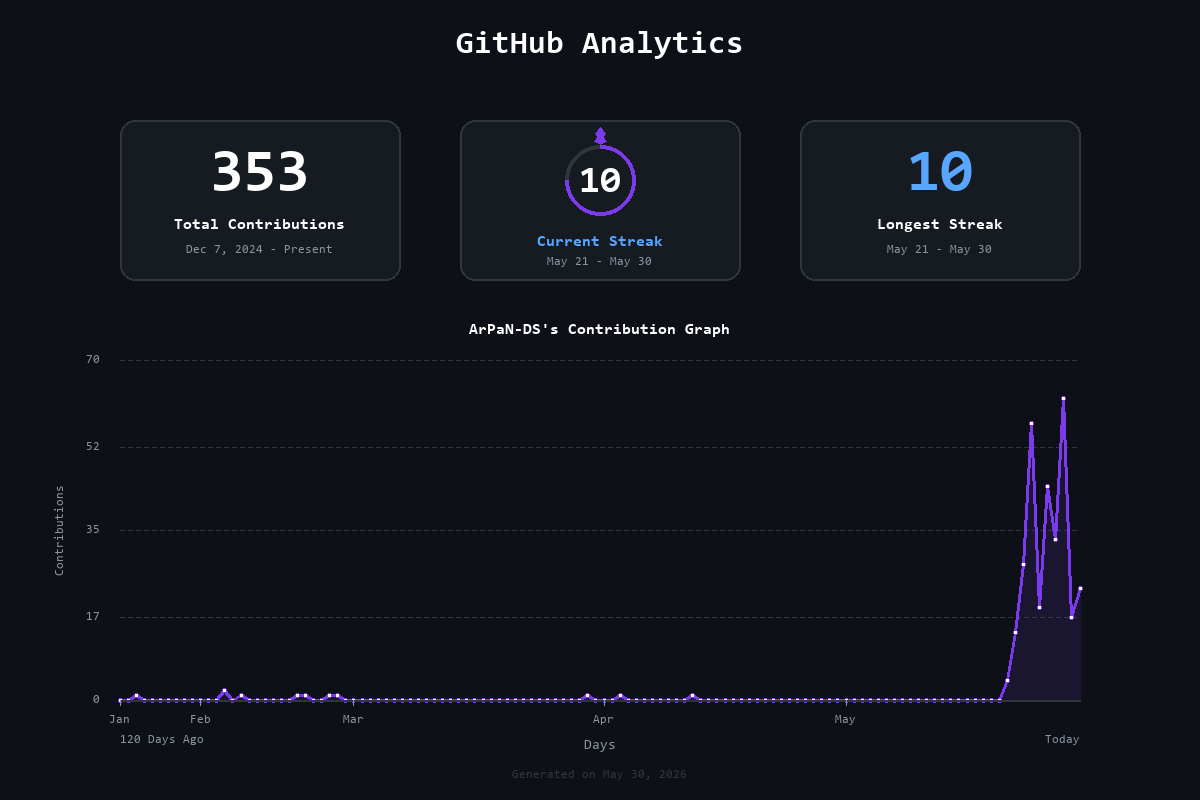
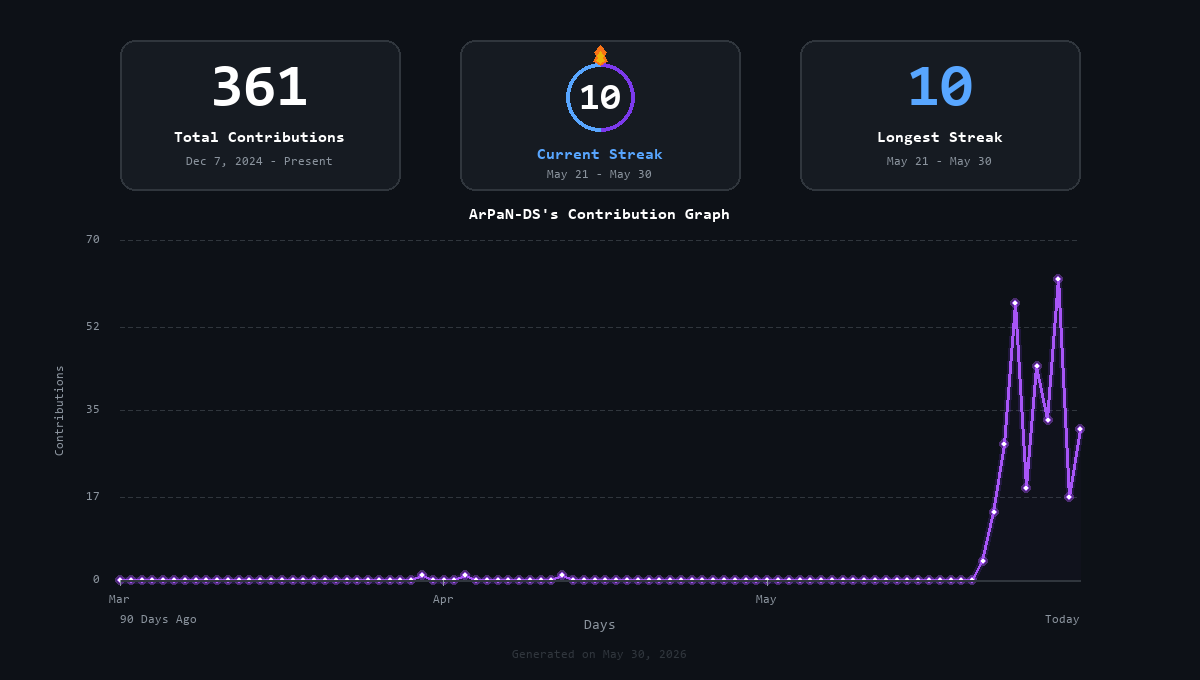
refactor: optimize github analytics visualization with a compact layout, updated flame design, and improved gradient rendering

diff --git a/generate_github_analytics.py b/generate_github_analytics.py
@@ -223,7 +223,7 @@ def draw_vertical_text(draw, img, text, pos, fill, font):
     img.paste(rotated, (px, py), rotated)
 
 
-def generate_github_analytics(username, days_back=120, token=None):
+def generate_github_analytics(username, days_back=90, token=None):
     """Generate GitHub Analytics dashboard image."""
     print(f"📊 Generating GitHub Analytics for {username}...")
     print(f"   Timeline: Last {days_back} days")
@@ -242,26 +242,22 @@ def generate_github_analytics(username, days_back=120, token=None):
     # Calculate streaks
     streaks = calculate_streaks(contributions_by_date)
     
-    # Image dimensions
-    W, H = 1200, 800
+    # Image dimensions (Cropped height for compact layout, removing duplicate title)
+    W, H = 1200, 680
     img = Image.new("RGB", (W, H), BG)
     draw = ImageDraw.Draw(img)
     
     # Fonts
-    font_title = get_bold_font(32)
     font_metric = get_bold_font(60)
     font_metric_sm = get_bold_font(38)
     font_label = get_bold_font(16)
     font_sm = get_font(14)
     font_xs = get_font(12)
     
-    # Title
-    draw.text((W // 2, 45), "GitHub Analytics", fill=WHITE, font=font_title, anchor="mm")
-    
-    # Top metrics row
-    metrics_y = 120
+    # Top metrics row (shifted up to y = 40)
+    metrics_y = 40
     metric_width = 280
-    metric_height = 160
+    metric_height = 150
     metrics_x_positions = [120, 460, 800]
     
     # ── Card 1: Total Contributions ──
@@ -273,9 +269,9 @@ def generate_github_analytics(username, days_back=120, token=None):
         outline=DIM,
         width=2
     )
-    draw.text((x1 + metric_width // 2, metrics_y + 55), str(total_contributions), fill=WHITE, font=font_metric, anchor="mm")
-    draw.text((x1 + metric_width // 2, metrics_y + 105), "Total Contributions", fill=WHITE, font=font_label, anchor="mm")
-    draw.text((x1 + metric_width // 2, metrics_y + 130), "Dec 7, 2024 - Present", fill=GRAY, font=font_xs, anchor="mm")
+    draw.text((x1 + metric_width // 2, metrics_y + 50), str(total_contributions), fill=WHITE, font=font_metric, anchor="mm")
+    draw.text((x1 + metric_width // 2, metrics_y + 98), "Total Contributions", fill=WHITE, font=font_label, anchor="mm")
+    draw.text((x1 + metric_width // 2, metrics_y + 122), "Dec 7, 2024 - Present", fill=GRAY, font=font_xs, anchor="mm")
     
     # ── Card 2: Current Streak (Circular progress design) ──
     x2 = metrics_x_positions[1]
@@ -287,32 +283,44 @@ def generate_github_analytics(username, days_back=120, token=None):
         width=2
     )
     cx, cy = x2 + metric_width // 2, metrics_y + metric_height // 2
-    r = 35
-    circle_y = cy - 20
+    r = 34
+    circle_y = cy - 18
     # Inactive track
     draw.ellipse([(cx - r, circle_y - r), (cx + r, circle_y + r)], outline=DIM, width=4)
-    # Active arc
-    draw.arc([(cx - r, circle_y - r), (cx + r, circle_y + r)], start=-90, end=180 if streaks["current"] > 0 else -90, fill=PURPLE, width=4)
+    # Active arc (glowing purple to blue gradient feel)
+    draw.arc([(cx - r, circle_y - r), (cx + r, circle_y + r)], start=-90, end=90 if streaks["current"] > 0 else -90, fill=PURPLE, width=4)
+    draw.arc([(cx - r, circle_y - r), (cx + r, circle_y + r)], start=90, end=270 if streaks["current"] > 0 else 90, fill=BLUE, width=4)
     
-    # Custom flame shape above the ring
+    # Custom double-layered flame shape (Orange-500 outer, Yellow-500 inner)
     flame_y = circle_y - r - 6
-    flame_points = [
+    outer_points = [
         (cx, flame_y - 12),
-        (cx + 5, flame_y - 6),
-        (cx + 3, flame_y - 2),
-        (cx + 6, flame_y + 2),
-        (cx, flame_y + 5),
-        (cx - 6, flame_y + 2),
-        (cx - 3, flame_y - 2),
-        (cx - 5, flame_y - 6),
+        (cx + 6, flame_y - 5),
+        (cx + 4, flame_y - 1),
+        (cx + 7, flame_y + 4),
+        (cx, flame_y + 8),
+        (cx - 7, flame_y + 4),
+        (cx - 4, flame_y - 1),
+        (cx - 6, flame_y - 5),
     ]
-    draw.polygon(flame_points, fill=PURPLE)
+    inner_points = [
+        (cx, flame_y - 6),
+        (cx + 3, flame_y - 2),
+        (cx + 2, flame_y + 1),
+        (cx + 4, flame_y + 3),
+        (cx, flame_y + 6),
+        (cx - 4, flame_y + 3),
+        (cx - 2, flame_y + 1),
+        (cx - 3, flame_y - 2),
+    ]
+    draw.polygon(outer_points, fill=(249, 115, 22))  # Orange
+    draw.polygon(inner_points, fill=(234, 179, 8))   # Yellow
     
     # Text inside the circle
     draw.text((cx, circle_y + 2), str(streaks["current"]), fill=WHITE, font=font_metric_sm, anchor="mm")
     # Text below circle
-    draw.text((cx, cy + 42), "Current Streak", fill=BLUE, font=font_label, anchor="mm")
-    draw.text((cx, cy + 62), streaks["current_range"] if streaks["current_range"] else "None", fill=GRAY, font=font_xs, anchor="mm")
+    draw.text((cx, cy + 40), "Current Streak", fill=BLUE, font=font_label, anchor="mm")
+    draw.text((cx, cy + 60), streaks["current_range"] if streaks["current_range"] else "None", fill=GRAY, font=font_xs, anchor="mm")
     
     # ── Card 3: Longest Streak ──
     x3 = metrics_x_positions[2]
@@ -323,20 +331,20 @@ def generate_github_analytics(username, days_back=120, token=None):
         outline=DIM,
         width=2
     )
-    draw.text((x3 + metric_width // 2, metrics_y + 55), str(streaks["longest"]), fill=BLUE, font=font_metric, anchor="mm")
-    draw.text((x3 + metric_width // 2, metrics_y + 105), "Longest Streak", fill=WHITE, font=font_label, anchor="mm")
-    draw.text((x3 + metric_width // 2, metrics_y + 130), streaks["longest_range"] if streaks["longest_range"] else "None", fill=GRAY, font=font_xs, anchor="mm")
+    draw.text((x3 + metric_width // 2, metrics_y + 50), str(streaks["longest"]), fill=BLUE, font=font_metric, anchor="mm")
+    draw.text((x3 + metric_width // 2, metrics_y + 98), "Longest Streak", fill=WHITE, font=font_label, anchor="mm")
+    draw.text((x3 + metric_width // 2, metrics_y + 122), streaks["longest_range"] if streaks["longest_range"] else "None", fill=GRAY, font=font_xs, anchor="mm")
     
-    # ── Line Graph Section ──
-    graph_y0 = 360
-    graph_y1 = 700
+    # ── Line Graph Section (Shifted up to y0 = 240, y1 = 580) ──
+    graph_y0 = 240
+    graph_y1 = 580
     graph_x0 = 120
     graph_x1 = 1080
     graph_w = graph_x1 - graph_x0
     graph_h = graph_y1 - graph_y0
     
     # Graph Title
-    draw.text((W // 2, graph_y0 - 30), f"{username}'s Contribution Graph", fill=WHITE, font=font_label, anchor="mm")
+    draw.text((W // 2, graph_y0 - 25), f"{username}'s Contribution Graph", fill=WHITE, font=font_label, anchor="mm")
     
     # Gather contribution data list for the last days_back days
     today = datetime.now().date()
@@ -376,19 +384,41 @@ def generate_github_analytics(username, days_back=120, token=None):
         y = graph_y1 - (count / y_max) * graph_h
         points.append((x, y))
         
-    # 1. Translucent purple area under the line
-    polygon_points = [(graph_x0, graph_y1)] + points + [(graph_x1, graph_y1)]
-    overlay = Image.new("RGBA", img.size, (0, 0, 0, 0))
-    overlay_draw = ImageDraw.Draw(overlay)
-    overlay_draw.polygon(polygon_points, fill=(124, 58, 237, 30))
-    img.paste(overlay, (0, 0), overlay)
+    # 1. Layered Fading Gradient under the curve
+    gradient_overlay = Image.new("RGBA", img.size, (0, 0, 0, 0))
+    gradient_draw = ImageDraw.Draw(gradient_overlay)
+    for k in range(6):
+        factor = (k + 1) / 6.0  # opacity layer heights from 1/6 to 6/6
+        layer_points = []
+        for x, y in points:
+            h = graph_y1 - y
+            y_layer = graph_y1 - h * factor
+            layer_points.append((x, y_layer))
+        
+        layer_polygon = [(graph_x0, graph_y1)] + layer_points + [(graph_x1, graph_y1)]
+        gradient_draw.polygon(layer_polygon, fill=(124, 58, 237, 6))
+    img.paste(gradient_overlay, (0, 0), gradient_overlay)
     
-    # 2. Solid purple line
-    draw.line(points, fill=PURPLE, width=3)
+    # 2. Dual-Pass Glowing Line Chart (Pass 1: wide glow overlay)
+    glow_overlay = Image.new("RGBA", img.size, (0, 0, 0, 0))
+    glow_draw = ImageDraw.Draw(glow_overlay)
+    glow_draw.line(points, fill=(124, 58, 237, 45), width=7)
+    img.paste(glow_overlay, (0, 0), glow_overlay)
     
-    # 3. Small white dots at data points
+    # 3. Dual-Pass Glowing Line Chart (Pass 2: sharp electric violet line)
+    draw.line(points, fill=(168, 85, 247), width=3)
+    
+    # 4. Glowing dual-circle data markers
+    point_overlay = Image.new("RGBA", img.size, (0, 0, 0, 0))
+    point_draw = ImageDraw.Draw(point_overlay)
     for x, y in points:
-        draw.ellipse([(x - 2, y - 2), (x + 2, y + 2)], fill=WHITE, outline=PURPLE, width=1)
+        # Outer glow
+        point_draw.ellipse([(x - 4.5, y - 4.5), (x + 4.5, y + 4.5)], fill=(168, 85, 247, 100))
+    img.paste(point_overlay, (0, 0), point_overlay)
+    
+    for x, y in points:
+        # Inner white core with purple outline
+        draw.ellipse([(x - 2.5, y - 2.5), (x + 2.5, y + 2.5)], fill=WHITE, outline=(168, 85, 247), width=1)
         
     # X-axis base line
     draw.line([(graph_x0, graph_y1), (graph_x1, graph_y1)], fill=DIM, width=2)
